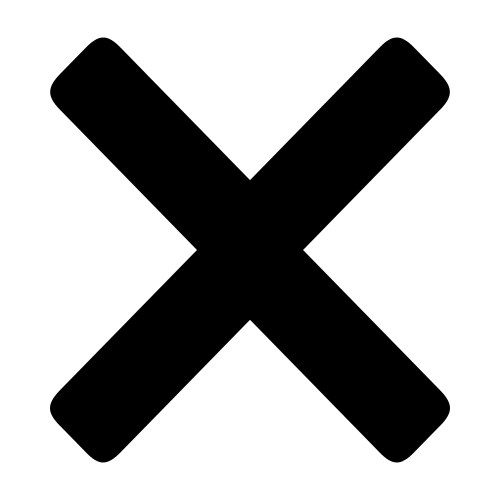
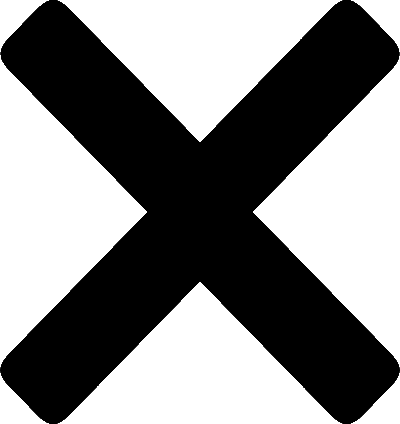
Rundenübersichtscreen fertig!

diff --git a/Studiduell_Prototyp/www/html/Rundenuebersicht.html b/Studiduell_Prototyp/www/html/Rundenuebersicht.html
@@ -22,9 +22,9 @@
 <body>
 
 <table id="ProfilbilderTabelle border="0" width="100%" >
-<td> <p><img align="left" src="../images/profilbild.png" width="35%" height="35%" alt="Profilbild"></p> </td>
+<td> <p><img align="left" src="../images/profilbild.png" width="35%" height="35%" alt="Profilbild"></p> <p><img  style="margin-left:20px;" align="left" src="../images/Kreuz.png" width="30%" height="30%" alt="Kreuz"></p></td>
 
-<td> <p><img  align="right" src="../images/profilbild.png" width="35%" height="35%" alt="Profilbild"></p> <p><img  align="right" src="../images/addicon.png" width="35%" height="35%" alt="Addicon"></p></td>
+<td> <p><img  align="right" src="../images/profilbild.png" width="35%" height="35%" alt="Profilbild"></p> <p><img  style="margin-right:20px;" align="right" src="../images/addicon.png" width="35%" height="35%" alt="Addicon"></p></td>
 
 <tr>
 
@@ -117,7 +117,7 @@
 <table id="Runde6Tabelle" border="0" width="100%" >
   <tr>
     <tr>
-    <td rowspan="2">Du bist dran</td>
+    <td rowspan="2" align="center">Du bist dran</td>
     <td class="SchriftgroesseKlein">Runde 6</td>
     <td rowspan="2">verdeckt</td>
   </tr>
